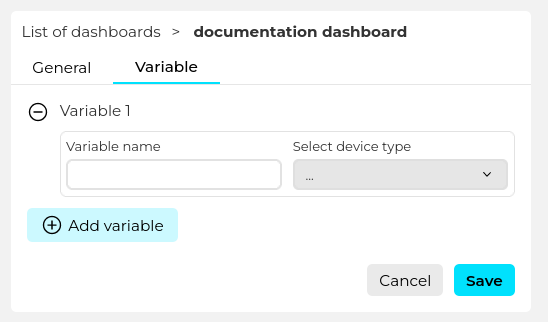
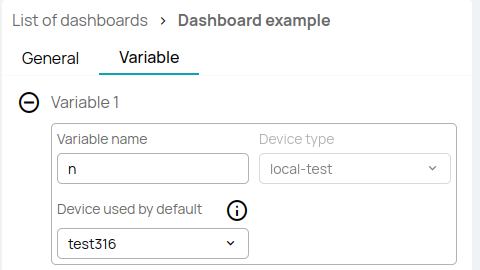
Update new Biotz app things and correct some errors

diff --git a/docs/Examples/POSTMAN/Getting the token.md b/docs/Examples/POSTMAN/Getting the token.md
@@ -21,14 +21,50 @@ Once you have saved all these data, you must follow a few steps to get the token
 
 **Now, you must go to the terminal.**
 
-Once in the terminal, to get the token you have to write this bash in the terminal:
+Once in the terminal, to get the token, you have to write this bash in the terminal:
 ```bash title="HTTPie"
-http --auth-type bearer \
---auth ~YOUR ID_TOKEN~ \
-POST https://ingestion-http.biotz.io/api/device/publish/data/mytestmessag \
-hum=20.5 temp=25.6
+http --form POST \
+https://auth.biotz.io/realms/biotz-platform/protocol/openid-connect/token \
+username=~HTTP USER FROM CSV~ \
+password=~PASSWORD FROM CSV~ \
+grant_type=password \
+client_id=biotz-platform-devices \
+scope=openid
+
 ```
-Then, you have to change the username and password for the excel data, where it says "\~HTTP USER FROM CSV~", you must write the http username of your CSV, and where it says "\~PASSWORD FROM CSV~" what it is in the password of the CSV.
+Then, you have to change the username and password for the excel data, where it says "\~HTTP USER FROM CSV~", you must write the http username of your CSV, and where it says "\~PASSWORD FROM CSV~" what it is in the password of the CSV, the rest of the information is left as is.
 
 Now, if you have done everything correctly by pressing enter, you should see three different tokens in the terminal, and at the bottom of the terminal, the token type. 
 The token you will need to the authorization, is the id_token.
+
+### Obtaining Access Tokens with Postman
+
+1. **Open Postman**: Launch the Postman application on your device.
+
+2. **Create a New Request**: Start a new request by clicking on the "New" button in Postman.
+
+3. **Configure Request**:
+   - **Method**: POST
+   - **URL**: `https://auth.biotz.io/realms/biotz-platform/protocol/openid-connect/token`
+
+4. **Set Request Body**:
+   - Navigate to the "Body" tab within the request settings.
+   - Select "form-data" as the body type.
+   - Add the following key-value parameters:
+     - `username`: ~HTTP USER FROM CSV~
+     - `password`: ~PASSWORD FROM CSV~
+     - `grant_type`: password
+     - `client_id`: biotz-platform-devices
+     - `scope`: openid
+
+5. **Configure Variables**:
+   - Ensure that the values of `username` and `password` are configured as environment variables or input directly into Postman.
+
+6. **Send Request**: Click on the "Send" button to execute the request.
+
+7. **Review Response**: Upon successful authentication, the response will contain the access token generated by the Biotz authentication server.
+
+### Notes
+- This request is designed to authenticate with the Biotz authentication server and obtain access tokens.
+- Ensure that you replace placeholders (`~HTTP USER FROM CSV~`, `~PASSWORD FROM CSV~`) with actual values.
+- The access token obtained can be used to authorize subsequent requests to Biotz API endpoints.

diff --git a/docs/Examples/POSTMAN/Postman instalation.md b/docs/Examples/POSTMAN/Postman instalation.md
@@ -4,38 +4,41 @@ sidebar_label: Postman instalation
 ---
 
 
-## Install Postman in Ubuntu:
-```
-sudo snap install postman
-```
+### Install Postman in Ubuntu
 
-This command installs Postman using the Snap package manager.
+You can install Postman on Ubuntu using either the snap package or the tar.gz archive. Here are the steps for each method:
 
-**Extract the installation archive:**
+#### Method 1: Using Snap (Recommended)
+This method installs Postman in a single step.
 
-```
-tar -xzf Postman-linux-x64-5.3.2.tar.gz
-```
+1. Open your terminal.
+2. Run the following command:
+    ```bash
+    sudo snap install postman
+    ```
 
-This command unpacks the downloaded Postman archive file.
+#### Method 2: Using tar.gz Archive
+This method involves downloading, extracting, and setting up Postman manually.
 
-**Remove any previous version (optional):**
-```
-sudo rm -rf /opt/Postman
-```
-This removes any previous version of Postman that may exist in the /opt/Postman directory.
+1. Open your terminal.
+2. Download the latest Postman archive:
+    ```bash
+    wget https://dl.pstmn.io/download/latest/linux64 -O postman.tar.gz
+    ```
+3. Extract the downloaded archive:
+    ```bash
+    tar -xzf postman.tar.gz
+    ```
+4. Move the extracted Postman directory to `/opt`:
+    ```bash
+    sudo mv Postman /opt/Postman
+    ```
+5. Create a symbolic link to make Postman accessible from anywhere:
+    ```bash
+    sudo ln -s /opt/Postman/Postman /usr/bin/postman
+    ```
 
-**Move Postman to a specific directory:**
-```
-sudo mv Postman /opt/Postman
-```
-It moves the extracted Postman folder to the /opt/Postman directory.
-
-**Create a symbolic link:**
-```
-sudo ln -s /opt/Postman/Postman /usr/bin/postman
-```
-This creates a symbolic link so you can easily run Postman from the command line using the postman command.
+Both methods will successfully install Postman on your system. Choose the method that best suits your preference.
 
 **Create a desktop launcher file:**
 ```

diff --git a/docs/Tutorials/Getting started/Step 6 - Sending a data ingestion request.md b/docs/Tutorials/Getting started/Step 6 - Sending a data ingestion request.md
@@ -9,10 +9,10 @@ Now that you have a token from Biotz Identity Provider, it is time to send actua
 <br></br>
 For the request to be accepted by the **http-forwarder** it needs three things:
 - The **id_token**.
-- The message type **internal name** for your device. This should be **mytestmessag** if you have been following this tutorial.
+- The message type **internal name** for your device. This should be **mytestmessage** if you have been following this tutorial.
 - Request **payload**. This is your device’s data. The payload should have the shape/structure of the schema you defined previously. That means, an **Object** containing the keys **hum**, **temp** and **time**.
 
-In this case the **Object** is an JSON object since the **mytestmessag** definition was configured with the **JSON** encoding.
+In this case the **Object** is an JSON object since the **mytestmessage** definition was configured with the **JSON** encoding.
 
 <br></br>
 Now, the request is very simple, you will send just a single sample of data (a single request in this case) to the platform. Here is an example using both HTTPie and cURL.
@@ -20,7 +20,7 @@ Now, the request is very simple, you will send just a single sample of data (a s
 ```bash title="HTTPie"
 http --auth-type bearer \
 --auth ~YOUR ID_TOKEN~ \
-POST https://ingestion-http.biotz.io/api/device/publish/data/mytestmessag \
+POST https://ingestion-http.biotz.io/api/device/publish/data/mytestmessage \
 hum=20.5 temp=25.6
 ```
 <br></br>

diff --git a/docs/How-to guides/How to create a dashboard.md b/docs/How-to guides/How to create a dashboard.md
@@ -30,7 +30,7 @@ When clicking on “create” an empty dashboard is created.
 A dashboard is composed of one or more panels. To create a new one use the “New panel” button and select the type of panel to create.
 <br></br>
 
-At the moment the available panel types are the following: time-series, pie chart and gauge.
+At the moment the available panel types are the following: time-series, pie chart, gauge and device map.
 
 <div class="tutorial-image-container">
     ![Creating panels](img/creating-panels.png)
@@ -172,3 +172,23 @@ The following appearance related options are available:
 - Conditions for different styles, applies the first that's true
 - Color
 - Text to display
+
+
+
+##### Device map
+
+###### Query builder
+
+The query builder is used to define which data will the device map show. 
+
+**Query Builder Functionality**:
+
+- In the query builder, you can first choose the type of device or have the option to select all devices. If you choose to select a specific device, you can name the type of device.
+- In the appearance section, you cannot make any changes because The appearance of the panel cannot be configured.
+
+**Device Type Selection**:
+- After choosing the device type you want, you can save the panel, and it should appear on the dashboard with a map and the selected device types.
+ 
+
+
+

diff --git a/docs/Examples/POSTMAN/Sending the request.md b/docs/Examples/POSTMAN/Sending the request.md
@@ -18,10 +18,10 @@ Add a new request by clicking, the "+" icon.
 Then, you will need to introduce the http url that you want to do the request, in this case the url would be similar to this:
 
 ```
-https://ingestion-http.biotz.io/api/device/publish/data/mytestmessag \
+https://ingestion-http.biotz.io/api/device/publish/data/mytestmessage \
 ```
 
-Remember, that where it is "mytestmessag \" , you will have to enter the name of your own message type, to see that you should go back to app.biotz.io and in data ingestion flow, there search for your device type.
+Remember, that where it is "mytestmessage \" , you will have to enter the name of your own message type, to see that you should go back to app.biotz.io and in data ingestion flow, there search for your device type.
 This is what will appear:
 
 <div class="tutorial-image-container">
@@ -34,7 +34,7 @@ Then click on that device type and there will be all the message types of the de
 ![Message](../img/internal-name.png)
 </div>
 
-In the second column you can see the internal name of each one, look for yours and write the internal name that corresponds instead of "mytestmessag \". 
+In the second column you can see the internal name of each one, look for yours and write the internal name that corresponds instead of "mytestmessage \". 
 
 Then go to authorization.
 

diff --git a/docs/How-to guides/How to use dashboard variables.md b/docs/How-to guides/How to use dashboard variables.md
@@ -25,7 +25,9 @@ The variables are created from the dashboard edition view. For that click on the
 Creating a variable only requires specifying a name and selecting a device-type.
 <br></br>
 
-The dashboard variables are always device-type specific to ensure that all the selectable devices are compatible with the dashboard panel queries in which the variable is used.
+The dashboard variables are always device-type specific to ensure that all the selectable devices are compatible with the dashboard panel queries in which the variable is used. 
+
+When entering the device type, the panels that use this variable will use this device by default. But in the dashboard toolbar you can select any other device of the same type, and display the data of that other device instead. 
 
 <div class="tutorial-image-container">
 ![Documentation Dasboard](img/documentation-dashboard.png)
